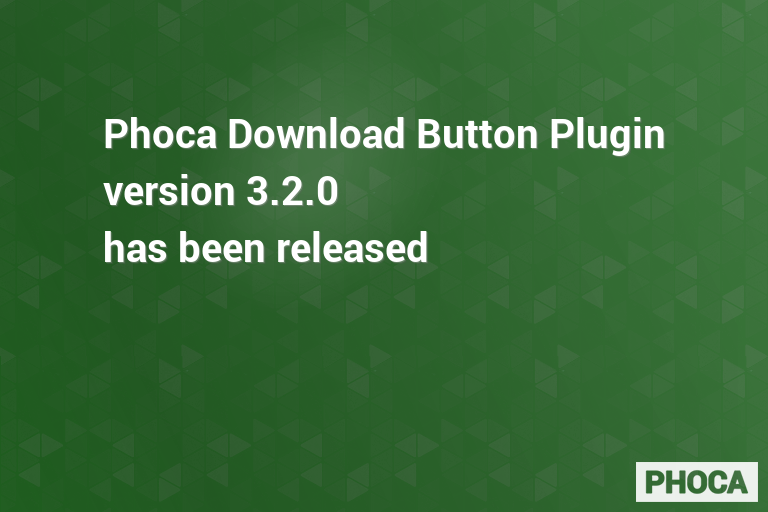
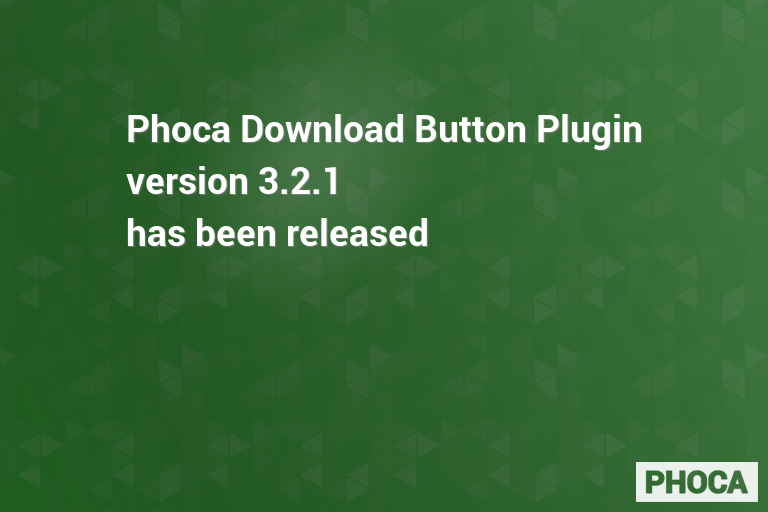
3.2.1
3.2.1

Changed region(s): [[0.125, 0.2188, 0.875, 0.5312]]

diff --git a/phocadownload.php b/phocadownload.php
@@ -34,7 +34,7 @@ class plgButtonPhocaDownload extends JPlugin
 
 		$link = 'index.php?option=com_phocadownload&amp;view=phocadownloadlinks&amp;tmpl=component&amp;e_name='.$name;
 
-		JHTML::_('behavior.modal');
+		Joomla\CMS\HTML\HTMLHelper::_('behavior.modal');
 
 
 

diff --git a/README.MD b/README.MD
@@ -54,7 +54,7 @@ Phoca Download Button Plugin is a Joomla! plugin which enables a Phoca Download 
 
 ## Version
 
-3.2.0
+3.2.1
 
 
 
